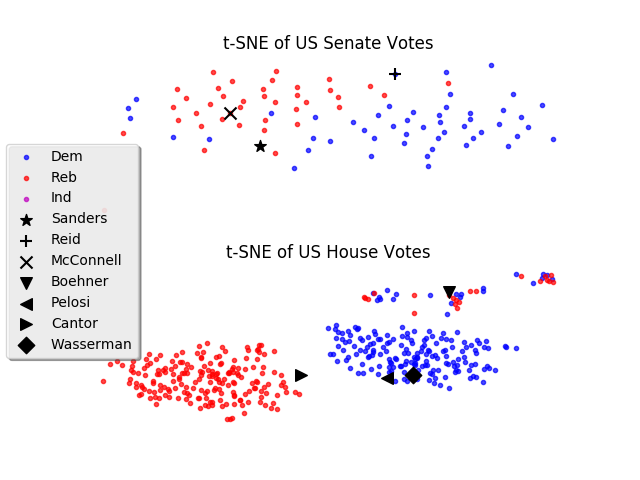
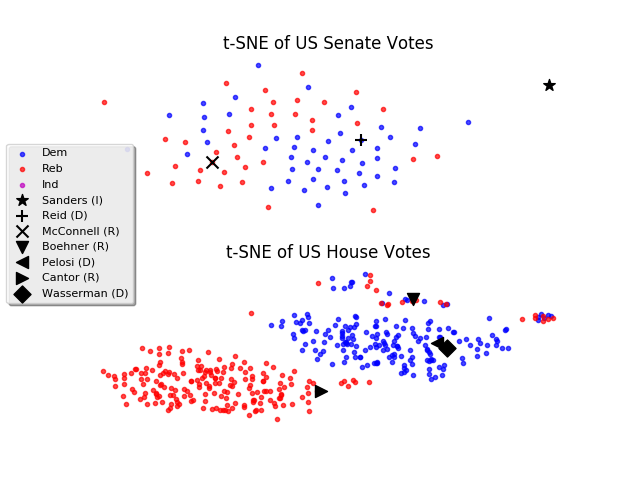
Updated plot_2D_tSNE in build_features.py and uploaded two exploratory figures.

diff --git a/src/features/build_features.py b/src/features/build_features.py
@@ -68,6 +68,22 @@ class Features:
 
         return df_tSNE
 
+    def plot_congressman(self, df, plt, members, markers, groups, labels):
+        """Add congressmen to plot generated by plot_2D_tSNE().
+        """
+
+        for p, person in enumerate(members):
+
+            vis_x, vis_y = df[(df.index == person)].values[0, 2:]
+            party = df.Party[(df.index == person)].values[0]
+            party = ''.join(['(', party, ')'])
+            point = plt.scatter(vis_x, vis_y, s=75,
+                                marker=markers[p], c='black')
+            label = ' '.join([person, party])
+            groups.append(point)
+            labels.append(label)
+        return groups, labels
+
     def plot_2D_tSNE(self, df_senate, df_house, senators=[], representatives=[]):
         """Plot tSNE for senate and house.
         """
@@ -75,7 +91,7 @@ class Features:
         f, (senate, house) = plt.subplots(2, sharex=False, sharey=False)
         marker = '.'
         alpha = 0.7
-        legend_labels = ['Dem', 'Reb', 'Ind']
+        labels = ['Dem', 'Reb', 'Ind']
         colors = ['b', 'r', 'm']
         senate_markers = ['*', '+', 'x', '^']
         house_markers = ['v', '<', '>', 'D']
@@ -136,33 +152,23 @@ class Features:
         senate.axis('off')
         house.axis('off')
 
-        legend_groups = [Dems, Reps, Inds]
+        groups = [Dems, Reps, Inds]
 
         if senators:
 
-            for p, person in enumerate(senators):
-
-                vis_x, vis_y = df_senate[(df_senate.index == person)].values[0, 2:]
-                point = senate.scatter(vis_x, vis_y, s=75,
-                                       marker=senate_markers[p], c='black')
-                legend_groups.append(point)
-                legend_labels.append(person)
+            groups, labels = self.plot_congressman(df_senate, senate, senators,
+                                                   senate_markers, groups, labels)
 
         if representatives:
 
-            for p, person in enumerate(representatives):
+            groups, labels = self.plot_congressman(df_house, house, representatives,
+                                                   house_markers, groups, labels)
 
-                vis_x, vis_y = df_house[(df_house.index == person)].values[0, 2:]
-                point = house.scatter(vis_x, vis_y, s=70,
-                                      marker=house_markers[p], c='black')
-                legend_groups.append(point)
-                legend_labels.append(person)
-
-        f.legend(legend_groups,
-                 legend_labels,
+        f.legend(groups,
+                 labels,
                  scatterpoints=1,
                  loc='upper left',
-                 prop={'size': 10},
+                 prop={'size': 8},
                  labelspacing=0.5,
                  bbox_to_anchor=(0.01, 0.7),
                  fancybox=True,
@@ -193,7 +199,7 @@ def main(session_number):
                        'Cantor',
                        'Wasserman'
                        ]
-    scale = 'robust'
+    scale = 'standard'
 
     df_tSNE_senate = congressional_votes.transform_SVD_tSNE(df, chamber='s', scale=scale)
     df_tSNE_house = congressional_votes.transform_SVD_tSNE(df, chamber='h', scale=scale)
